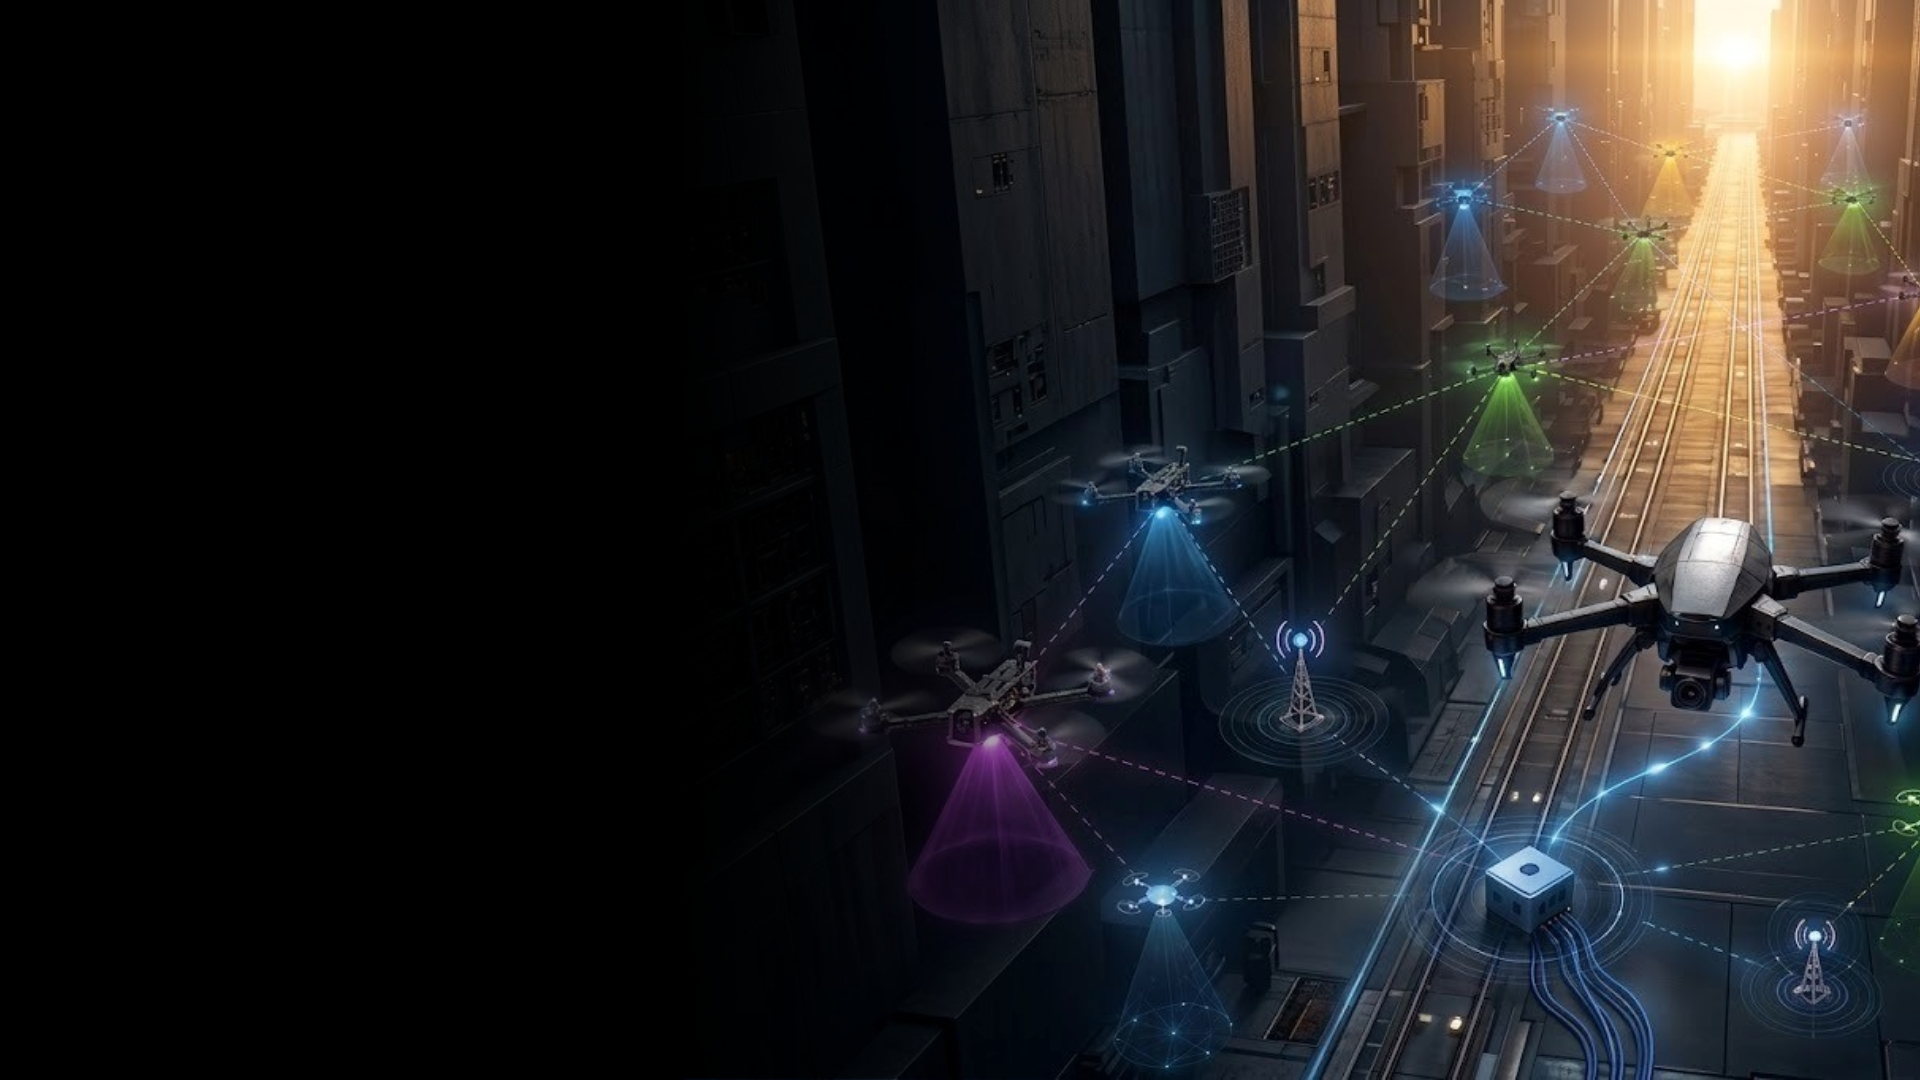
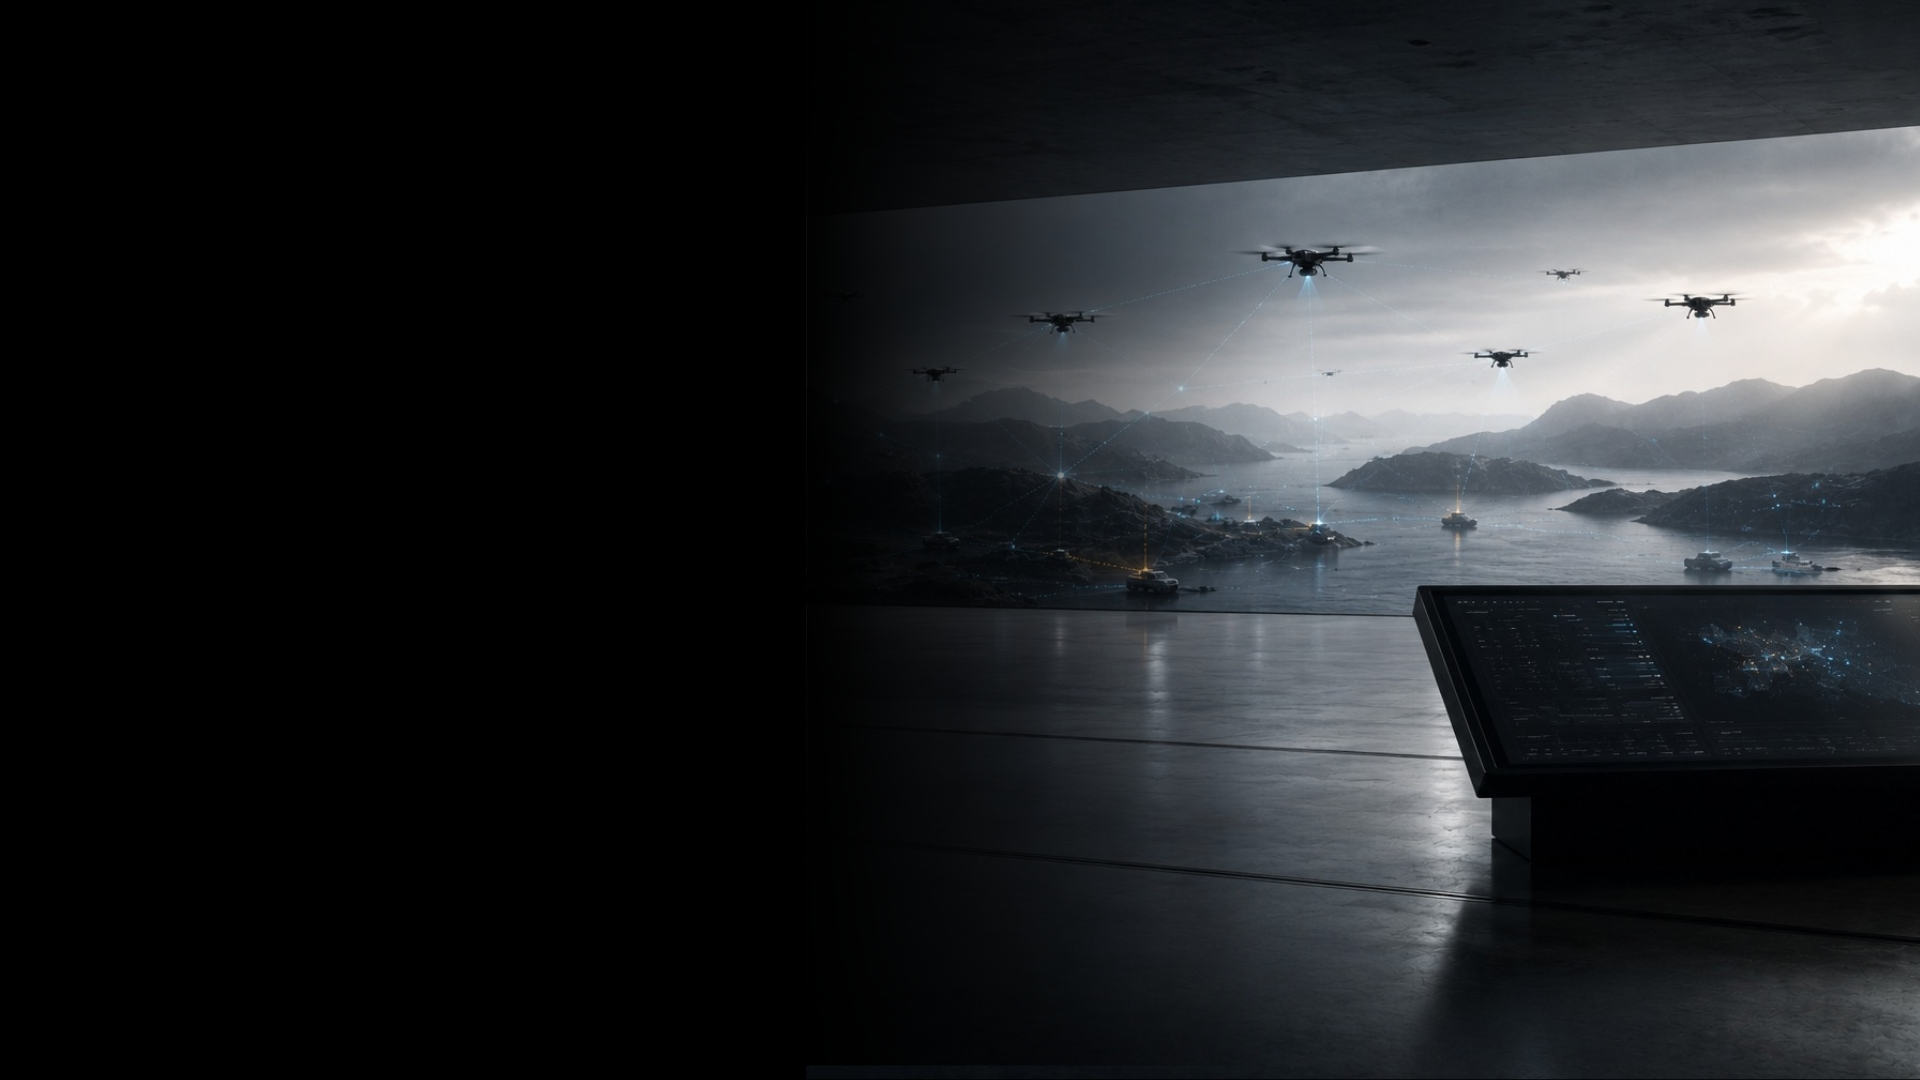
Update project

diff --git a/app/globals.css b/app/globals.css
@@ -401,6 +401,10 @@ a {
   box-sizing: border-box;
 }
 
+#sim-lidar-depth {
+  background-position: right center;
+}
+
 .sim-content {
   max-width: 700px;
   display: flex;

diff --git a/components/HomePage.tsx b/components/HomePage.tsx
@@ -32,6 +32,7 @@ const simulators: SimulatorData[] = [
     title: 'ANSA DIGITAL TWIN SIMULATOR',
     desc: 'Build it once. Fly it a thousand times. A living digital replica where systems are tested, broken, and perfected before a single component is manufactured.',
     cta: 'EXPLORE THE DIGITAL TWIN',
+    image: '/assets/ansa-digital-twin.jpg',
   },
   {
     id: 'fault-failure',
@@ -63,6 +64,7 @@ const simulators: SimulatorData[] = [
     title: 'LiDAR & DEPTH PERCEPTION SIMULATOR',
     desc: 'Teach machines to see the world in three dimensions. Generate massive volumes of spatial intelligence for mapping, navigation, and next-generation perception systems.',
     cta: 'EXPLORE MACHINE PERCEPTION',
+    image: '/assets/lidar-sim-new.jpg',
   },
   {
     id: 'khonsu-space',

diff --git a/next-env.d.ts b/next-env.d.ts
@@ -1,6 +1,6 @@
 /// <reference types="next" />
 /// <reference types="next/image-types/global" />
-import "./.next/types/routes.d.ts";
+import "./.next/dev/types/routes.d.ts";
 
 // NOTE: This file should not be edited
 // see https://nextjs.org/docs/app/api-reference/config/typescript for more information.